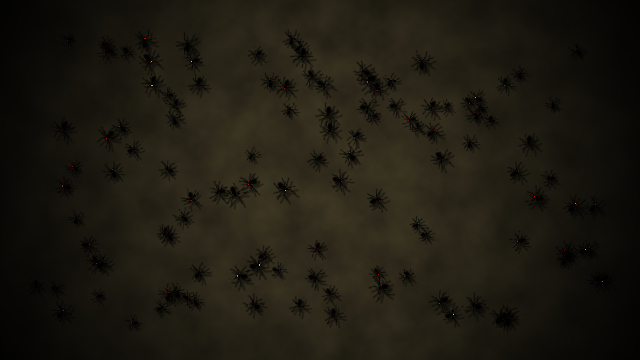
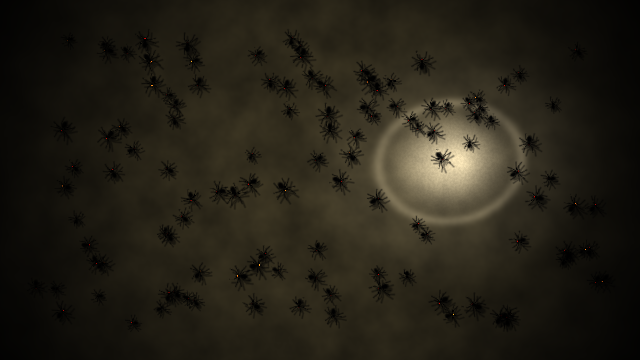
Add a sweeping flashlight beam to The Swarm
A hand-held flashlight drifts between search spots on a critically damped
spring with hand tremor, and is drawn as a warm pool with a reflector ring
and spill halo. Spiders scurry out of the beam. New sliders control its
brightness, size, sweep speed and how much the spiders fear it.

Claude-Session: https://claude.ai/code/session_01Dtpr5XTi5doqNDUMNdXbQr

Changed region(s): [[0.5625, 0.2444, 0.8438, 0.6417]]

diff --git a/app/src/main/java/com/phantomfloor/scenes/SwarmScene.kt b/app/src/main/java/com/phantomfloor/scenes/SwarmScene.kt
@@ -23,8 +23,17 @@ class SwarmScene : Scene("swarm", "The Swarm") {
     private val cohesion = SceneParam("cohesion", "Clumping", 0f, 2f, 0.6f)
     private val style = SceneParam("style", "Shadow ↔ Spectral", 0f, 1f, 0f, step = 1f)
     private val light = SceneParam("light", "Floor lantern light", 0f, 1f, 0.6f)
+    private val flashPower = SceneParam("flash", "Flashlight brightness", 0f, 1.5f, 0.9f)
+    private val flashSize = SceneParam("flashSize", "Flashlight size", 0.08f, 0.45f, 0.2f)
+    private val flashSpeed = SceneParam("flashSpeed", "Flashlight sweep speed", 0.2f, 2.5f, 1f)
+    private val lightFear = SceneParam("lightFear", "Spiders flee the light", 0f, 1f, 0.7f)
 
-    override val params = listOf(count, speed, spiderSize, fear, cohesion, style, light)
+    override val params = listOf(
+        count, speed, spiderSize, fear, cohesion, style, light,
+        flashPower, flashSize, flashSpeed, lightFear,
+    )
+
+    private val flashlight = Flashlight()
 
     private val swarm = BoidSwarm(MAX_SPIDERS)
     private lateinit var floorProgram: GlProgram
@@ -74,6 +83,11 @@ class SwarmScene : Scene("swarm", "The Swarm") {
         swarm.perception = 0.075f * spiderSize.value.coerceAtLeast(1f)
         swarm.fleeRadius = fear.value
         swarm.wCohesion = cohesion.value
+        flashlight.update(frame.dt, frame.aspect, flashSpeed.value)
+        swarm.lightX = flashlight.x
+        swarm.lightY = flashlight.y
+        swarm.lightRadius = flashSize.value
+        swarm.wLight = if (flashPower.value > 0.05f) lightFear.value else 0f
         if (frame.beatTriggered && frame.level > 0.3f) swarm.startle(min(1f, 0.4f + frame.level))
         // Sub-step so fast feet can't tunnel through the swarm on a frame hitch.
         val steps = if (frame.dt > 1f / 45f) 2 else 1
@@ -82,12 +96,14 @@ class SwarmScene : Scene("swarm", "The Swarm") {
 
     override fun draw(frame: FrameState) {
         val shadowStyle = style.value < 0.5f
-        if (shadowStyle) {
-            floorProgram.use()
-            floorProgram.setCommon(frame)
-            floorProgram.set1f("uLight", light.value)
-            gl.drawFullscreen()
-        }
+        // Floor: lantern ambience (shadow style only) plus the flashlight beam in both styles.
+        floorProgram.use()
+        floorProgram.setCommon(frame)
+        floorProgram.set1f("uLight", if (shadowStyle) light.value else 0f)
+        floorProgram.set2f("uFlash", flashlight.x, flashlight.y)
+        floorProgram.set1f("uFlashRadius", flashSize.value)
+        floorProgram.set1f("uFlashPower", flashPower.value)
+        gl.drawFullscreen()
 
         val n = swarm.count
         instanceData.clear()

diff --git a/app/src/main/java/com/phantomfloor/scenes/Flashlight.kt b/app/src/main/java/com/phantomfloor/scenes/Flashlight.kt
@@ -1,0 +1,59 @@
+package com.phantomfloor.scenes
+
+import kotlin.math.exp
+import kotlin.math.sin
+import kotlin.random.Random
+
+/**
+ * A hand-held flashlight sweeping the floor. Every few seconds it picks a new spot to search,
+ * eases there on a critically damped spring (no snapping, natural slow-in/slow-out), lingers,
+ * then moves on. A sum of small, unrelated sines adds hand tremor on top.
+ * Positions are world units: x in [0, aspect], y in [0, 1].
+ */
+class Flashlight(seed: Int = 31) {
+
+    private val rng = Random(seed)
+    private var aimX = 0.8f
+    private var aimY = 0.5f
+    private var vx = 0f
+    private var vy = 0f
+    private var targetX = 0.8f
+    private var targetY = 0.5f
+    private var holdTimer = 0f
+    private var t = 0f
+
+    var x = 0.8f
+        private set
+    var y = 0.5f
+        private set
+
+    fun update(dt: Float, aspect: Float, speed: Float) {
+        t += dt
+        holdTimer -= dt * speed
+        if (holdTimer <= 0f) {
+            // Sometimes a short nervous flick, usually a slower sweep somewhere new.
+            val flick = rng.nextFloat() < 0.3f
+            val reach = if (flick) 0.18f else 0.6f
+            targetX = (aimX + (rng.nextFloat() - 0.5f) * 2f * reach * aspect).coerceIn(0.12f, aspect - 0.12f)
+            targetY = (aimY + (rng.nextFloat() - 0.5f) * 2f * reach).coerceIn(0.12f, 0.88f)
+            holdTimer = if (flick) 0.6f + rng.nextFloat() * 0.8f else 2f + rng.nextFloat() * 3f
+        }
+
+        // Critically damped spring toward the target.
+        val omega = 2.2f * speed
+        val ax = omega * omega * (targetX - aimX) - 2f * omega * vx
+        val ay = omega * omega * (targetY - aimY) - 2f * omega * vy
+        vx += ax * dt
+        vy += ay * dt
+        val damp = exp(-dt * 0.5f)
+        vx *= damp
+        vy *= damp
+        aimX += vx * dt
+        aimY += vy * dt
+
+        val tremorX = 0.006f * sin(t * 7.3f) + 0.004f * sin(t * 11.9f + 1.7f) + 0.01f * sin(t * 0.9f + 0.4f)
+        val tremorY = 0.006f * sin(t * 8.1f + 2.3f) + 0.004f * sin(t * 13.3f) + 0.01f * sin(t * 1.1f + 2.0f)
+        x = aimX + tremorX
+        y = aimY + tremorY
+    }
+}

diff --git a/app/src/main/java/com/phantomfloor/scenes/BoidSwarm.kt b/app/src/main/java/com/phantomfloor/scenes/BoidSwarm.kt
@@ -54,6 +54,12 @@ class BoidSwarm(val capacity: Int, seed: Int = 1337) {
     var wWander = 0.35f
     var baseSize = 0.028f
 
+    // Light to avoid (world units). Strength 0 disables it.
+    var lightX = 0f
+    var lightY = 0f
+    var lightRadius = 0.2f
+    var wLight = 0f
+
     // Spatial grid
     private var gridW = 1
     private var gridH = 1
@@ -194,6 +200,21 @@ class BoidSwarm(val capacity: Int, seed: Int = 1337) {
                     fx += dx * s
                     fy += dy * s
                     panic[i] = max(panic[i], min(1f, k * threat * 0.8f))
+                    pause[i] = 0f
+                }
+            }
+
+            // Spiders scurry out of the flashlight beam (milder than fleeing a foot).
+            if (wLight > 0f) {
+                val dx = xi - lightX
+                val dy = yi - lightY
+                val d = sqrt(dx * dx + dy * dy)
+                if (d < lightRadius) {
+                    val k = 1f - d / lightRadius
+                    val s = k * wLight * 1.2f / max(d, 0.01f)
+                    fx += dx * s
+                    fy += dy * s
+                    panic[i] = max(panic[i], k * 0.35f * wLight)
                     pause[i] = 0f
                 }
             }

diff --git a/tools/shader-preview/check.js b/tools/shader-preview/check.js
@@ -118,7 +118,7 @@ for (const f of files) src[f] = load(f);
     // SWARM: floor + instanced spiders (shadow style), then spectral style
     for (const [name, style] of [['swarm', 0], ['swarm_spectral', 1]]) {
       screen();
-      if (style === 0) { p = progs['swarm_floor.frag']; gl.useProgram(p); common(2.0, people); f1('uLight', 0.6); fsq(); }
+      p = progs['swarm_floor.frag']; gl.useProgram(p); common(2.0, people); f1('uLight', style === 0 ? 0.6 : 0.0); gl.uniform2f(u('uFlash'), 1.25, 0.55); f1('uFlashRadius', 0.2); f1('uFlashPower', 0.9); fsq();
       const n = 120, data = new Float32Array(n * 6);
       let seed = 1; const rnd = () => (seed = (seed * 16807) % 2147483647) / 2147483647;
       for (let i = 0; i < n; i++) data.set([0.1 + rnd() * (W2 - 0.2), 0.1 + rnd() * 0.8, rnd() * 6.28, 0.028 * (0.75 + rnd() * 0.5), rnd() * 6.28, rnd() < 0.2 ? 1 : 0], i * 6);

diff --git a/README.md b/README.md
@@ -91,7 +91,7 @@ rejected while dragging. Touches are mapped back through the inverse homography.
 | Scene | Technique | Reacts to people | Reacts to sound |
 |---|---|---|---|
 | **Ectoplasmic Fog** | 2-level domain-warped simplex fBm, light-offset sample for fake volumetric self-shadowing, ridged-noise wisps, purple/green region mixing | Fog is pushed out, swirls around moving legs, follows their wake, and leaves a clear pocket with a glowing rim | Bass thickens the fog, loud sounds churn it faster, beats flash lightning |
-| **The Swarm** | CPU Boids (separation, alignment, cohesion, wander, stop-and-go, soft walls) on a uniform spatial grid; one instanced draw of SDF spiders with an animated tetrapod gait | Spiders flee from feet (fast feet scare more). Panic spreads to neighbours as a scatter wave. Eyes glow hotter when panicked | Loud onsets startle the whole swarm. Beats flash the lantern light |
+| **The Swarm** | CPU Boids (separation, alignment, cohesion, wander, stop-and-go, soft walls) on a uniform spatial grid; one instanced draw of SDF spiders with an animated tetrapod gait; a hand-held flashlight beam that sweeps the floor on a damped spring with hand tremor | Spiders flee from feet (fast feet scare more) and scurry out of the flashlight beam. Panic spreads to neighbours as a scatter wave. Eyes glow hotter when panicked | Loud onsets startle the whole swarm. Beats flash the lantern light |
 | **Cursed Fluid** | Flow-displaced animated Voronoi, bubbles that swell and pop, GPU wave-equation ripples; finite-difference normals with wet specular (blood) or glowing cracks (lava) | Pool tendrils creep toward each person; footsteps splash ripples | Bass boosts bubbling and lava heat; beats drop ripples |
 | **Living Water** | Ripple simulation + a half-res monster height-field pass (tentacles, skeletal hand, screaming face, built from tube/dome primitives) + refracted Voronoi caustics | Monsters surface near people, turn toward them, and sink with a splash when stepped on; eyes in the water close as people approach | The face's mouth opens with loudness; loud beats summon a monster |
 
